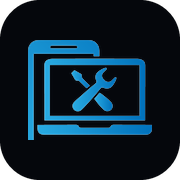
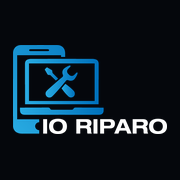
Icona dell'app con la scritta IO RIPARO
L'icona mostrava solo il disegno: sulla schermata Home il nome
dell'attività non si vedeva. Ora c'è il marchio intero, disegno e scritta
bianca, sul fondo scuro del sito (senza il motto, illeggibile a quella
misura). La favicon da 32 px resta il solo disegno.

Aggiunta un'icona maskable dedicata, con il margine che Android chiede, e
?v=2 negli indirizzi perché i telefoni non tengano quella vecchia in cache.

Claude-Session: https://claude.ai/code/session_01FpG3ugLWKjVtTTM1byEgur

diff --git a/index.html b/index.html
@@ -31,8 +31,8 @@
     <meta name="twitter:card" content="summary_large_image" />
 
     <link rel="icon" type="image/png" sizes="32x32" href="/marchio/icona-32.png" />
-    <link rel="icon" type="image/png" sizes="96x96" href="/marchio/icona-96.png" />
-    <link rel="apple-touch-icon" href="/marchio/icona-180.png" />
+    <link rel="icon" type="image/png" sizes="96x96" href="/marchio/icona-96.png?v=2" />
+    <link rel="apple-touch-icon" href="/marchio/icona-180.png?v=2" />
     <link rel="manifest" href="/site.webmanifest" />
     <meta name="mobile-web-app-capable" content="yes" />
     <meta name="apple-mobile-web-app-capable" content="yes" />
